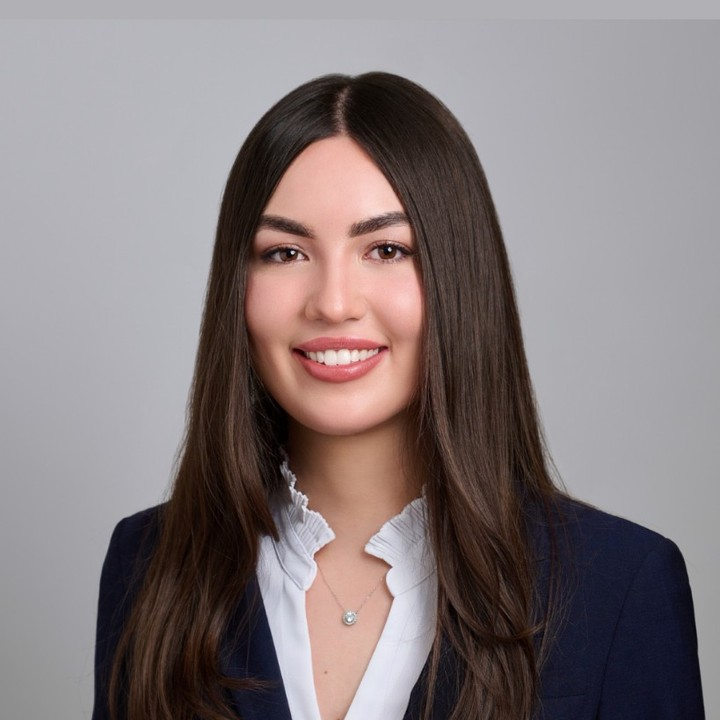
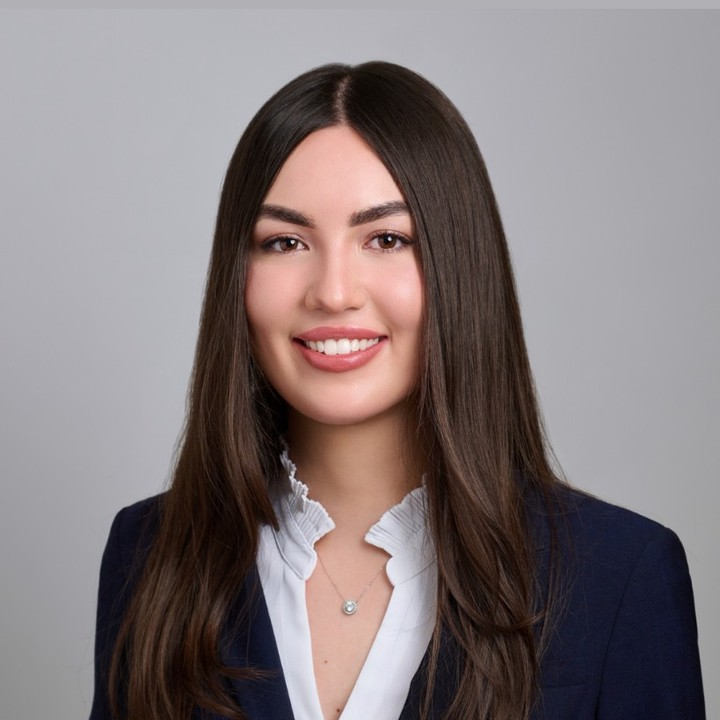
Name UCLA and USC presidents and align board headshots.

diff --git a/index.html b/index.html
@@ -190,8 +190,8 @@
                   class="board-photo"
                   src="assets/sasha.jpg"
                   alt="Sasha Gladkikh"
-                  width="737"
-                  height="1000"
+                  width="720"
+                  height="720"
                 />
                 <div>
                   <p class="board-office">Founder and Executive Director</p>
@@ -294,11 +294,7 @@
             <ul class="board-grid">
               <li>
                 <p class="board-office">President</p>
-                <p class="board-name"></p>
-              </li>
-              <li>
-                <p class="board-office">Vice President</p>
-                <p class="board-name"></p>
+                <p class="board-name">Abdullah Yusaf</p>
               </li>
             </ul>
           </div>
@@ -318,11 +314,7 @@
             <ul class="board-grid">
               <li>
                 <p class="board-office">President</p>
-                <p class="board-name"></p>
-              </li>
-              <li>
-                <p class="board-office">Vice President</p>
-                <p class="board-name"></p>
+                <p class="board-name">Andrew Kwon</p>
               </li>
             </ul>
           </div>

diff --git a/styles.css b/styles.css
@@ -418,7 +418,7 @@ a {
   width: 4.5rem;
   height: 4.5rem;
   object-fit: cover;
-  object-position: center 15%;
+  object-position: center top;
   flex-shrink: 0;
   margin: 0;
 }
